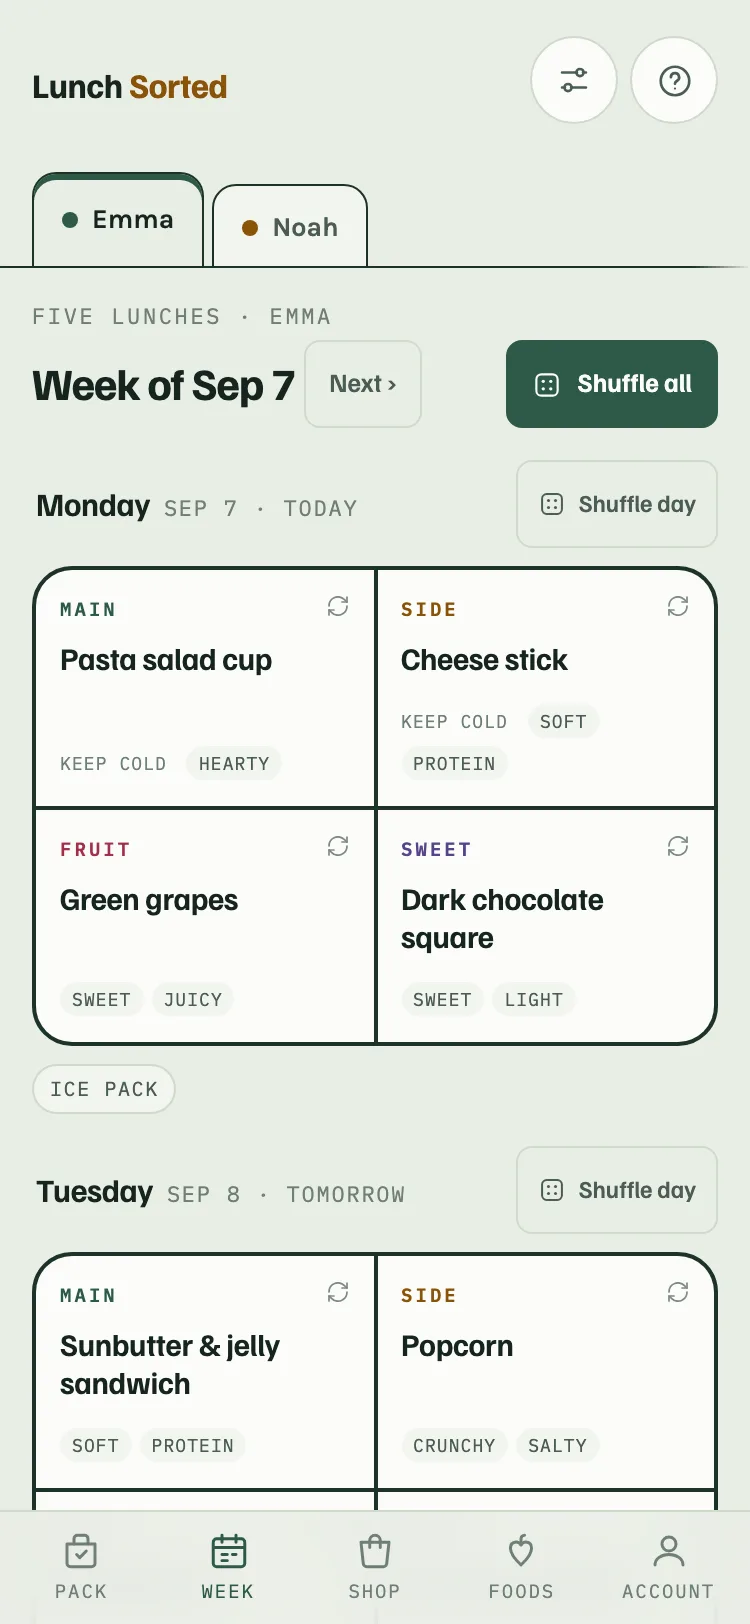
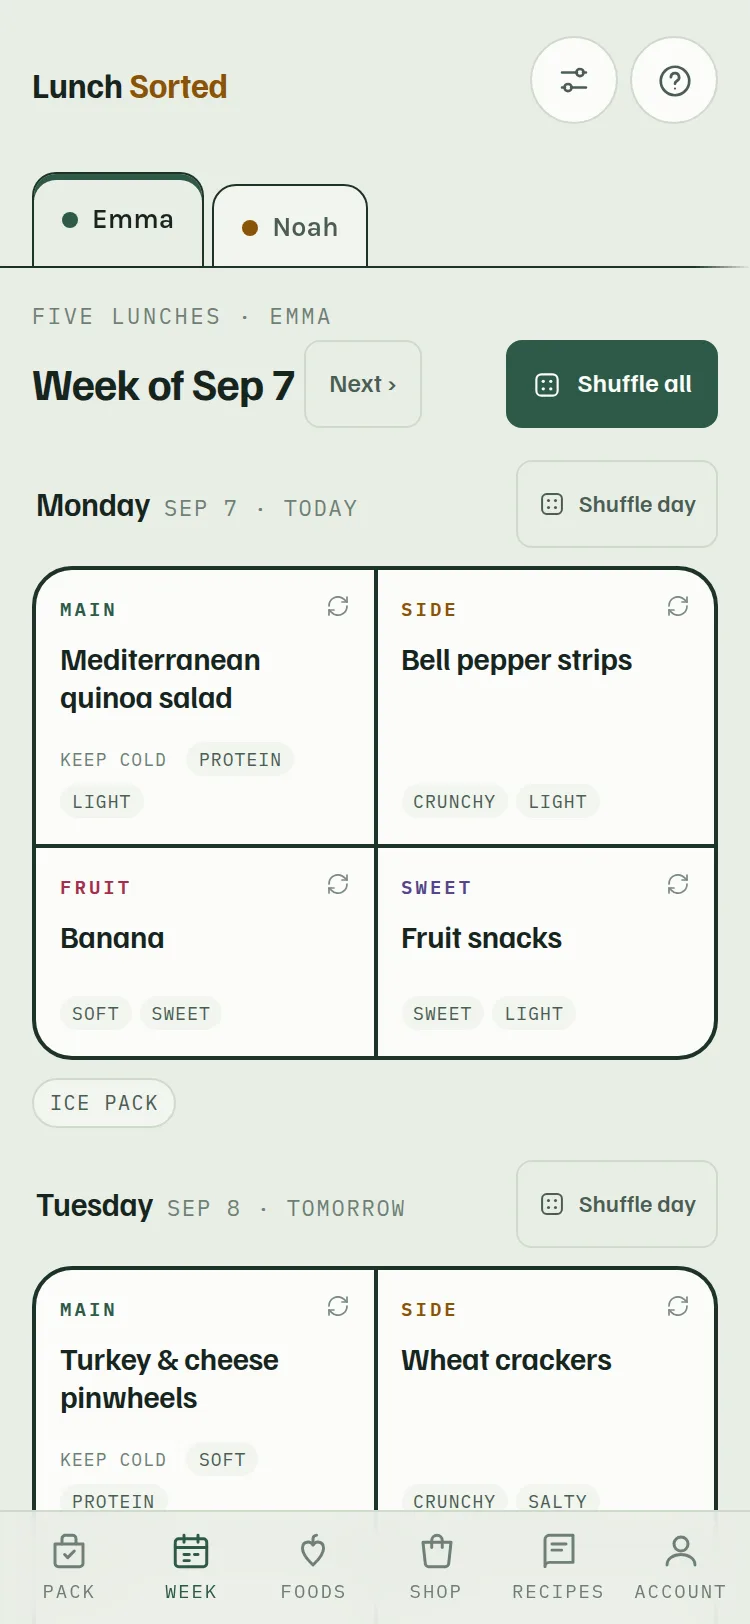
The screenshots tell the truth again
The site was live showing a five-tab bar on an app that has six, in the order
they were in before Foods moved, and no picture of the Recipes tab at all.
All four are reshot against v20, and a fifth is added: the Recipes tab with one
recipe the household brought in above the two the app ships, which is the whole
point of the tab being the household's rather than one lunchbox's.

Two of them could not reshoot themselves any more. Only two dishes carry a
recipe now and neither is a starter, so a household seeded from the bank has
none, and the Recipe tag and the "Making it?" row had nothing to show. The
script adds the Mediterranean quinoa salad and swaps it into Monday's main
compartment before it shoots. The Recipes shot is staged the same way, with one
recipe of the household's own, or the tab photographs as an Import button over
two rows, which argues against the feature it is selling.

The brand fonts come from Google, and a machine that cannot reach them renders
the fallback face, which is worse than a stale shot — so this could only ever be
done from one desk. LS_FONT_CACHE now points at a directory of the same font
bytes and the requests are answered from there. Unset, nothing changes.

The site grid takes five columns. The suite's own wake-up for the lazy images
was setting scrollLeft on a row that snaps, which fights the snap and left the
last figure asleep and unloaded; it brings each figure into view the way a swipe
does, and waits for what it woke.
[…]

diff --git a/public/index.html b/public/index.html
@@ -109,7 +109,7 @@ h2{font-family:var(--f-display);font-size:clamp(25px,4.2vw,32px);font-weight:700
   font-family:var(--f-mono);font-size:13px}
 
 .shots{display:grid;gap:22px;margin-top:8px}
-@media (min-width:700px){ .shots{grid-template-columns:repeat(4,1fr)} }
+@media (min-width:700px){ .shots{grid-template-columns:repeat(5,1fr);gap:16px} }
 /* three full-height phone shots stacked is a very long scroll on a phone,
    so below the breakpoint they become a swipeable row instead */
 @media (max-width:699px){
@@ -248,6 +248,8 @@ footer a{color:var(--ink-2)}
         <figcaption>The list</figcaption></figure>
       <figure><picture><source type="image/webp" srcset="/img/screen-pack.webp"><img src="/img/screen-pack.png" width="375" height="812" loading="lazy" decoding="async" alt="Pack view for one lunchbox: today&#8217;s box as a four-cell tin with the Packed check on, and a line reading one of two boxes ready."></picture>
         <figcaption>The morning</figcaption></figure>
+      <figure><picture><source type="image/webp" srcset="/img/screen-recipes.webp"><img src="/img/screen-recipes.png" width="375" height="812" loading="lazy" decoding="async" alt="The Recipes tab: one recipe the household brought in above the two the app comes with, each showing how long it takes and how many lunches it makes."></picture>
+        <figcaption>The cooking</figcaption></figure>
       <figure><picture><source type="image/webp" srcset="/img/screen-kidpick.webp"><img src="/img/screen-kidpick.png" width="375" height="812" loading="lazy" decoding="async" alt="Kid's pick: two foods stacked one above the other, each filling half the screen with a big picture and its name, to choose the main from."></picture>
         <figcaption>The kid&#8217;s pick</figcaption></figure>
     </div>

diff --git a/README.md b/README.md
@@ -261,29 +261,22 @@ forward).
       `cache-control: public, max-age=…` line; if Netlify's `/api/*` header rule reaches
       function responses instead, every app open becomes a function call (remove that rule).
 - [ ] Check the Netlify **Forms** tab receives a test submission from the waitlist form.
-- [ ] Reshoot the marketing and store screenshots on a machine that can reach
-      fonts.gstatic.com. The bottom bar shows five tabs in the three marketing shots that
-      include it: `public/img/screen-week.*`, `screen-pack.*` and `screen-shop.*`.
-      `screen-kidpick.*` is the handover screen and has no bar; the six
-      `store/screenshots/*.png` and the three `public/img/mail-day*.png` are all cropped
-      above it, so none of those nine is wrong about the tab. Separately stale:
-      `screen-pack.*` and `store/screenshots/02-pack.png` (the box now carries a
-      "Making it?" row) and `06-foods.png` (the Foods rows now carry a Recipe tag).
-      Both of those need staging now that only two bank dishes carry a recipe, and
-      neither is a starter, so a default household seeds neither and an unchanged
-      re-run reproduces the same shot: before shooting, add **Quinoa salad cup** from
-      Foods → Ideas, and for the pack shot swap it into today's main compartment on
-      Week. Without that the Recipe tag and the "Making it?" row do not appear at all.
-      Add a Recipes shot to both sets — `public/img/screen-recipes.png|webp` as a fifth
-      figure on the site (widen `.shots` to `repeat(5,1fr)`), and
-      `store/screenshots/07-recipes.png` as a seventh store slot, listed in
-      `store/listing.md`, which still has six. Stage that one too: add both bank dishes
-      so the rows read "on the food list", and import one recipe of your own so the
-      shot does not lead with "Nothing of your own yet". If staging it is more than it
-      is worth, drop the Recipes slot from both sets and this paragraph with it — a
-      screenshot of a search box over two rows argues against the feature.
-      `npm run dev`, then `npm run shots`; `node scripts/store-shots.mjs` for the store
-      set. Shot where the fonts cannot load, they come out in the fallback face.
+- [x] The four marketing screenshots and the new Recipes one are reshot against v20:
+      six tabs in the Pack/Week/Foods/Shop/Recipes/Account order, the "Making it?" row,
+      and `public/img/screen-recipes.png|webp` as a fifth figure on the site (`.shots` is
+      five columns now). `scripts/shots.mjs` stages what it needs — only two dishes carry
+      a recipe and neither is a starter, so it adds the Mediterranean quinoa salad and
+      swaps it into Monday's main compartment, and it seeds one recipe of the household's
+      own for the Recipes shot, or the tab photographs as an Import button over two rows.
+      Where fonts.gstatic.com is unreachable, `LS_FONT_CACHE=<dir>` serves the brand faces
+      from a cache (`fonts.css`, the woff2 files and a `map.txt` of "<url> <file>" lines)
+      rather than letting the shot come out in the fallback face.
+- [ ] Reshoot the six store screenshots, which are still on the old bar: `npm run dev`,
+      then `node scripts/store-shots.mjs` (it takes `LS_FONT_CACHE` too once it is given
+      the same block). `02-pack.png` and `06-foods.png` need the same staging as above, or
+      the "Making it?" row and the Recipe tag have nothing to show. Add
+      `store/screenshots/07-recipes.png` as a seventh slot and list it in
+      `store/listing.md`, which still names six.
 - [ ] Run `npm run csp` after any change to `public/app/index.html` (the test suite refuses
       a stale hash), and bump `VERSION` in `public/app/sw.js` when icons, the manifest or the
       fonts change. The shell itself refreshes one launch behind a deploy without a bump.
